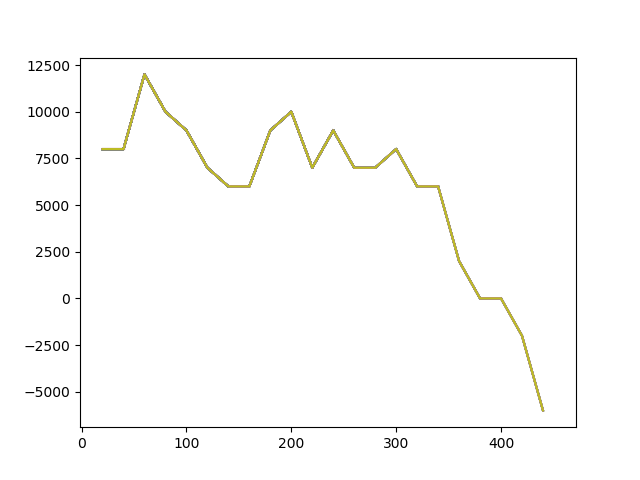
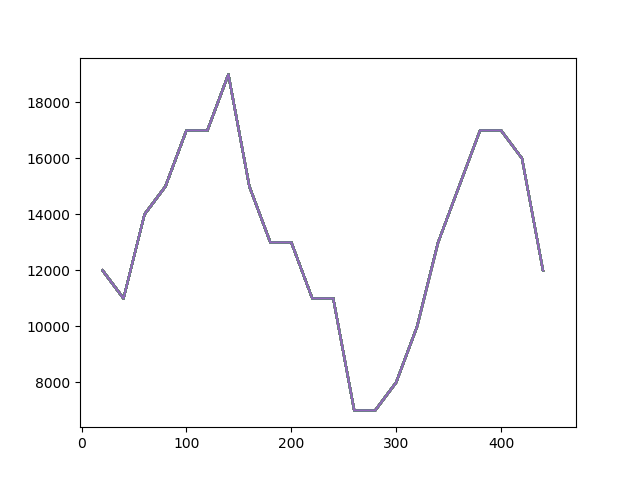
failed ddqn lost all money

diff --git a/forex_agent.py b/forex_agent.py
@@ -89,6 +89,7 @@ class ForexAgent:
         states, actions, rewards, next_states, dones = self.experience.sample(batch_size)
 
         output = self.model.predict(states)
+        target_one = self.model.predict(next_states)
         target = self.target_model.predict(next_states)
 
         for i in range(batch_size):
@@ -102,7 +103,8 @@ class ForexAgent:
                 output[i][actions[i]] = reward
             else:
                 #     We use 2 here, cos if it's not done, then it should always do nothing
-                output[i][2] = reward + self.discount_factor * (np.amax(target[i]))
+                a = np.argmax(target_one[i])
+                output[i][2] = reward + self.discount_factor * (target[i][a])
 
         self.model.fit(states, output, batch_size=batch_size, epochs=1, verbose=0)
 
